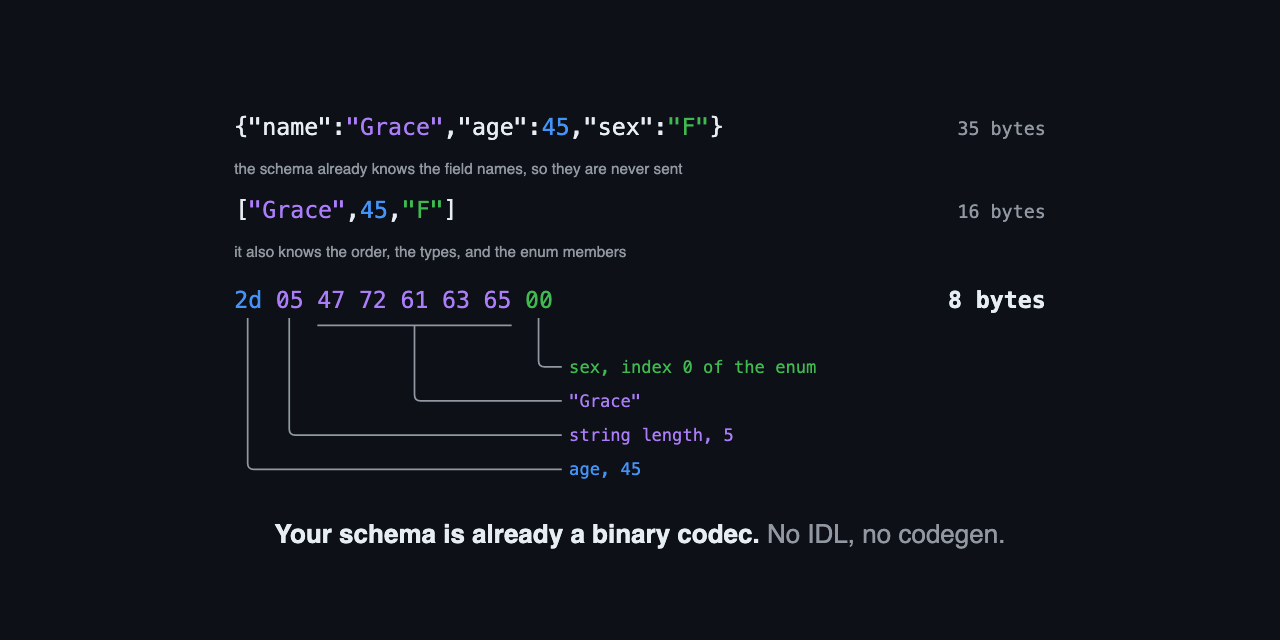
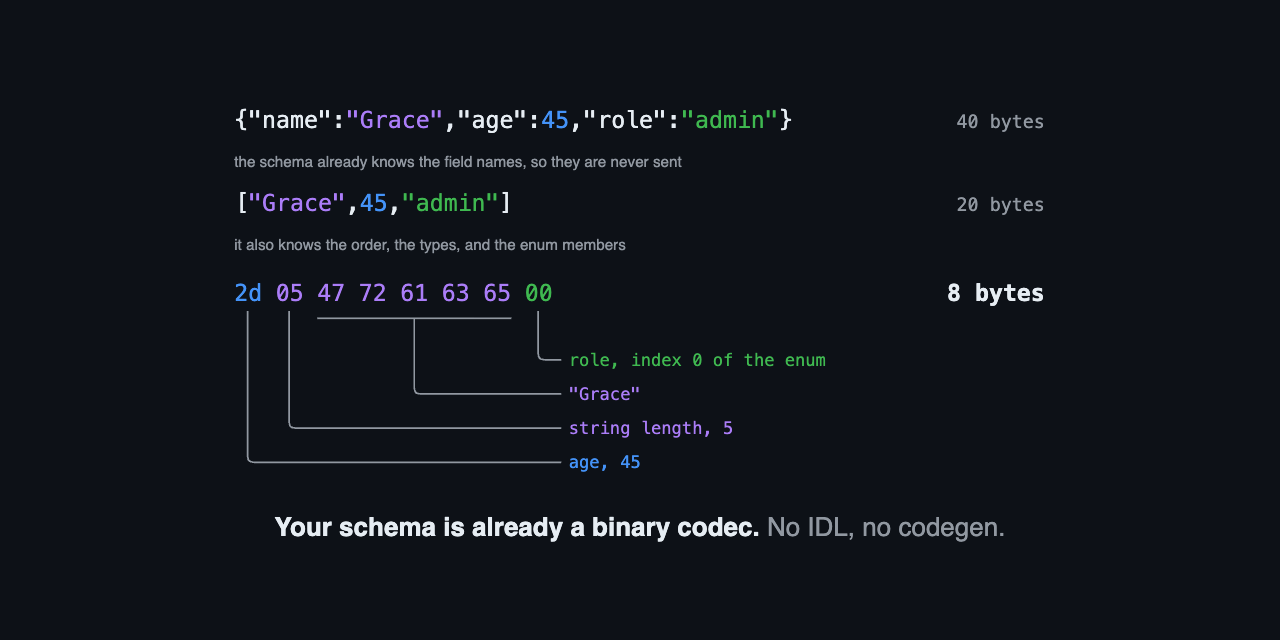
Use a role enum instead of sex in the example record
The Person example everyone meets first (README, its picture, the landing
page, the hero run, and the docs' getting-started, validator, and wire
pages) used sex: "F". It distracted from the point, so it is now
role: z.enum(["viewer", "editor", "admin"]) with the value "admin".

"admin" sorts first among the members, so it is index 0 exactly where "F"
was: the shorn bytes are unchanged (2d 05 47 72 61 63 65 00, 8 bytes) and
every byte-by-byte explanation still holds. Only the JSON side grew, 35 to
40 bytes minified and 16 to 20 as a positional array, and every place that
quotes those counts moved with it: both hero SVGs and the README alt text,
how-it-works, the introduction, the landing picture and hero, the OG card
(re-rendered with scripts/og.mjs), and the social preview export.

The landing page's per-format table was re-measured for the new record with
the bench's own codec setups, after checking that they reproduce the old
row (8/8/9/11/25/35) exactly: shorn 8, Avro 8, Protobuf 11, SchemaPack 13,
msgpackr 30, JSON 40. SchemaPack now sorts after Protobuf because the bench
writes its enum as a string.

The hero run draws the enum as a single 0 cell that all five letters of
"admin" fly into, and its build-time check now also asserts that cell is the
byte the encoder writes.

Not changed: the benchmark fixture (bench/fixtures.mjs and friends) keeps its
sex field, because every published throughput and size figure is measured on
[…]

diff --git a/docs/src/styles/strips.css b/docs/src/styles/strips.css
@@ -20,7 +20,7 @@
      out by hand as `2 * (1.6ch + 2.5px)` it measured 37.64px against two real slots at
      47.81px, a 10.17px drift in a figure whose whole conceit is byte-exactness.
 
-     2.5px: 35 cells share 34 gaps, so every extra half-pixel costs the strip 17px, and
+     2.5px: 40 cells share 39 gaps, so every extra half-pixel costs the strip 19.5px, and
      the JSON run is what has to fit its column without clipping. */
   --cell-gap: 2.5px;
 
@@ -153,7 +153,7 @@
 
 /* The playground draws whatever you paste, so its strips wrap rather than run off the
    edge: a 98-byte payload is 98 cells and there is no column width that fits them on
-   one line. The hero's fixed 35 do fit, so it stays a single run. */
+   one line. The hero's fixed 40 do fit, so it stays a single run. */
 .bytes.wrap .strip,
 .bytes.wrap .tok {
   flex-wrap: wrap;
@@ -163,7 +163,7 @@
 }
 
 /* The hero draws the same figure at the size of a hero. It wraps too, which is what
-   buys the size: nothing has to fit 35 cells on one line any more, so the cells can be
+   buys the size: nothing has to fit 40 cells on one line any more, so the cells can be
    read at arm's length instead of being shrunk to make the row fit its column. `ch`
    scales with font-size, so the cells grow with it and only the height needs restating. */
 .bytes.lg {
@@ -181,7 +181,7 @@
 /* Pretty-printed: the strip breaks where a formatter would break, one field per line.
    The break and the indent are layout, not cells: no byte is spent on them, so the
    figure is still one cell per byte and the count beside the lane is still the count.
-   Reading it is the point: `{"name":"Alice","age":34,"sex":"F"}` as a single 35-cell run
+   Reading it is the point: `{"name":"Alice","age":34,"role":"admin"}` as a single 40-cell run
    is a wall, and the wrap point was wherever the column happened to end. */
 .bytes .strip.lines {
   flex-direction: column;

diff --git a/docs/src/content/docs/core-concepts/how-it-works.md b/docs/src/content/docs/core-concepts/how-it-works.md
@@ -10,21 +10,21 @@ This page covers where the bytes go, then the four steps between a JavaScript va
 Start with one small record as minified JSON:
 
 ```text
-{"name":"Grace","age":45,"sex":"F"}   35 bytes
+{"name":"Grace","age":45,"role":"admin"}   40 bytes
 ```
 
 The schema already knows the field names, so there is no need to send them:
 
 ```text
-["Grace",45,"F"]                      16 bytes
+["Grace",45,"admin"]                       20 bytes
 ```
 
-The schema also knows the order and the type of each field, so the brackets, commas, and quotes can go too. And `"F"` is one of three known enum values, so an index replaces the string:
+The schema also knows the order and the type of each field, so the brackets, commas, and quotes can go too. And `"admin"` is one of three known enum values, so an index replaces the string:
 
 ```text
-2d 05 47 72 61 63 65 00               8 bytes
+2d 05 47 72 61 63 65 00                    8 bytes
 │  │  └─────┬──────┘ │
-│  │        │        └── sex, index 0 of the enum
+│  │        │        └── role, index 0 of the enum
 │  │        └── "Grace"
 │  └── string length, 5
 └── age, 45
@@ -32,7 +32,7 @@ The schema also knows the order and the type of each field, so the brackets, com
 
 The middle step is the familiar one: an array carries the same information as the object, because the reader knows what each position means. shorn applies the same idea to every byte, and the schema is what makes that safe.
 
-Two bytes deserve a second look. `2d` is age 45, and it comes first even though `name` was declared first, because fields are written in [canonical order](/core-concepts/canonical-bytes/), not declaration order. `00` is the index of `"F"` in the sorted enum `["F", "M", "X"]`. [Byte layout](/wire-format/layout/) covers every wire type this way.
+Two bytes deserve a second look. `2d` is age 45, and it comes first even though `name` was declared first, because fields are written in [canonical order](/core-concepts/canonical-bytes/), not declaration order. `00` is the index of `"admin"` in the sorted enum `["admin", "editor", "viewer"]`. [Byte layout](/wire-format/layout/) covers every wire type this way.
 
 ## The four steps
 

diff --git a/docs/src/content/docs/core-concepts/canonical-bytes.md b/docs/src/content/docs/core-concepts/canonical-bytes.md
@@ -11,9 +11,9 @@ shorn writes fields in the order of their names, compared as UTF-16 code units, 
 
 ```ts
 const Person = z.object({
-  name: z.string(),             // rank 1
-  age: z.int().nonnegative(),   // rank 0
-  sex: z.enum(["M", "F", "X"]), // rank 2
+  name: z.string(),                            // rank 1
+  age: z.int().nonnegative(),                  // rank 0
+  role: z.enum(["viewer", "editor", "admin"]), // rank 2
 });
 ```
 
@@ -26,10 +26,10 @@ The encoder applies the sort. The [`m` API](/api/m/) cannot override it, because
 The same rule orders enum members, so the index of a member never depends on where you declared it:
 
 ```ts
-z.enum(["M", "F", "X"]); // sorted: ["F", "M", "X"] → 0, 1, 2
+z.enum(["viewer", "editor", "admin"]); // sorted: ["admin", "editor", "viewer"] → 0, 1, 2
 ```
 
-Declaring `["X", "F", "M"]` gives identical bytes. Adding a member shifts the index of every member that sorts after it, which is why versioned payloads need a [wire fingerprint](/versioning/fingerprinting/).
+Declaring `["admin", "viewer", "editor"]` gives identical bytes. Adding a member shifts the index of every member that sorts after it, which is why versioned payloads need a [wire fingerprint](/versioning/fingerprinting/).
 
 ## The same bytes from every validator
 

diff --git a/README.md b/README.md
@@ -3,7 +3,7 @@
     <source media="(prefers-color-scheme: dark)"
             srcset="https://raw.githubusercontent.com/ChiChuRita/shorn/main/assets/hero-dark.svg">
     <img width="720"
-         alt='{"name":"Grace","age":45,"sex":"F"} is 35 bytes as JSON, 16 as a positional array, and 8 bytes through shorn: 2d is age 45, 05 is the string length, 47 to 65 is Grace, 00 is the enum index of "F"'
+         alt='{"name":"Grace","age":45,"role":"admin"} is 40 bytes as JSON, 20 as a positional array, and 8 bytes through shorn: 2d is age 45, 05 is the string length, 47 to 65 is Grace, 00 is the enum index of "admin"'
          src="https://raw.githubusercontent.com/ChiChuRita/shorn/main/assets/hero-light.svg">
   </picture>
 </p>
@@ -35,10 +35,10 @@ import { decode, encode } from "@chichurita/shorn";
 const Person = z.object({
   name: z.string(),
   age: z.int().nonnegative(),
-  sex: z.enum(["M", "F", "X"]),
+  role: z.enum(["viewer", "editor", "admin"]),
 });
 
-const person = { name: "Grace", age: 45, sex: "F" } as const;
+const person = { name: "Grace", age: 45, role: "admin" } as const;
 
 const bytes = encode(Person, person); // Uint8Array(8)
 const back = decode(Person, bytes);   // typed and validated

diff --git a/docs/src/content/docs/getting-started/introduction.md b/docs/src/content/docs/getting-started/introduction.md
@@ -14,14 +14,14 @@ import { decode, encode } from "@chichurita/shorn";
 const Person = z.object({
   name: z.string(),
   age: z.int().nonnegative(),
-  sex: z.enum(["M", "F", "X"]),
+  role: z.enum(["viewer", "editor", "admin"]),
 });
 
-const bytes = encode(Person, { name: "Grace", age: 45, sex: "F" }); // 8 bytes
+const bytes = encode(Person, { name: "Grace", age: 45, role: "admin" }); // 8 bytes
 const decoded = decode(Person, bytes);
 ```
 
-As minified JSON, that value is 35 bytes. shorn writes 8, because the field names and type markers stay in the schema instead of being repeated in every payload. [Where the bytes go](/core-concepts/how-it-works/#where-the-bytes-go) walks from 35 down to 8 in three steps.
+As minified JSON, that value is 40 bytes. shorn writes 8, because the field names and type markers stay in the schema instead of being repeated in every payload. [Where the bytes go](/core-concepts/how-it-works/#where-the-bytes-go) walks from 35 down to 8 in three steps.
 
 In every case:
 

diff --git a/docs/src/content/docs/wire-format/layout.md b/docs/src/content/docs/wire-format/layout.md
@@ -125,8 +125,8 @@ m.literal("x") with "x" -> []
 The index of the value in sorted order, as a varint. Members are deduplicated and sorted first, so declaration order does not matter.
 
 ```text
-m.enum(["M", "F", "X"])  // sorted to ["F", "M", "X"]
-"X" -> [2]
+m.enum(["viewer", "editor", "admin"])  // sorted to ["admin", "editor", "viewer"]
+"viewer" -> [2]
 ```
 
 Members do not have to be strings. An all-string enum sorts by value. Any other enum sorts by each member's JSON text, because `<` cannot order mixed types consistently. Either way a member costs one byte until there are 128 of them: a numeric enum is an index, not a number.

diff --git a/docs/src/content/docs/validators/valibot.md b/docs/src/content/docs/validators/valibot.md
@@ -13,12 +13,12 @@ import { decode, encode } from "@chichurita/shorn";
 const Person = v.object({
   name: v.string(),
   age: v.pipe(v.number(), v.integer(), v.minValue(0)),
-  sex: v.picklist(["M", "F", "X"]),
+  role: v.picklist(["viewer", "editor", "admin"]),
 });
 
 const structure = toStandardJsonSchema(Person);
 
-const person = { name: "Grace", age: 45, sex: "F" } as const;
+const person = { name: "Grace", age: 45, role: "admin" } as const;
 const bytes = encode(Person, person, structure); // 8 bytes
 const decoded = decode(Person, bytes, structure);
 ```

diff --git a/docs/src/content/docs/getting-started/quick-start.md b/docs/src/content/docs/getting-started/quick-start.md
@@ -12,10 +12,10 @@ import { compile, decode, encode, fingerprinted, safeDecode } from "@chichurita/
 const Person = z.object({
   name: z.string(),
   age: z.int().nonnegative(),
-  sex: z.enum(["M", "F", "X"]),
+  role: z.enum(["viewer", "editor", "admin"]),
 });
 
-const person = { name: "Grace", age: 45, sex: "F" } as const;
+const person = { name: "Grace", age: 45, role: "admin" } as const;
 
 const bytes = encode(Person, person);
 const back = decode(Person, bytes); // typed and validated

diff --git a/docs/src/content/docs/validators/zod.md b/docs/src/content/docs/validators/zod.md
@@ -12,10 +12,10 @@ import { compile, decode, encode, fingerprinted } from "@chichurita/shorn";
 const Person = z.object({
   name: z.string(),
   age: z.int().nonnegative(),
-  sex: z.enum(["M", "F", "X"]),
+  role: z.enum(["viewer", "editor", "admin"]),
 });
 
-const person = { name: "Grace", age: 45, sex: "F" } as const;
+const person = { name: "Grace", age: 45, role: "admin" } as const;
 const bytes = encode(Person, person); // 8 bytes
 const decoded = decode(Person, bytes);
 

diff --git a/docs/src/content/docs/validators/arktype.md b/docs/src/content/docs/validators/arktype.md
@@ -12,10 +12,10 @@ import { decode, encode } from "@chichurita/shorn";
 const Person = type({
   name: "string",
   age: "number.integer >= 0",
-  sex: "'M' | 'F' | 'X'",
+  role: "'viewer' | 'editor' | 'admin'",
 });
 
-const person = { name: "Grace", age: 45, sex: "F" } as const;
+const person = { name: "Grace", age: 45, role: "admin" } as const;
 const bytes = encode(Person, person); // 8 bytes
 const decoded = decode(Person, bytes);
 ```

diff --git a/docs/src/content/docs/getting-started/using-payloads.md b/docs/src/content/docs/getting-started/using-payloads.md
@@ -12,10 +12,10 @@ import { compile, encode, fingerprinted, safeDecode } from "@chichurita/shorn";
 const Person = z.object({
   name: z.string(),
   age: z.int().nonnegative(),
-  sex: z.enum(["M", "F", "X"]),
+  role: z.enum(["viewer", "editor", "admin"]),
 });
 
-const person = { name: "Grace", age: 45, sex: "F" } as const;
+const person = { name: "Grace", age: 45, role: "admin" } as const;
 ```
 
 ## Send over HTTP
